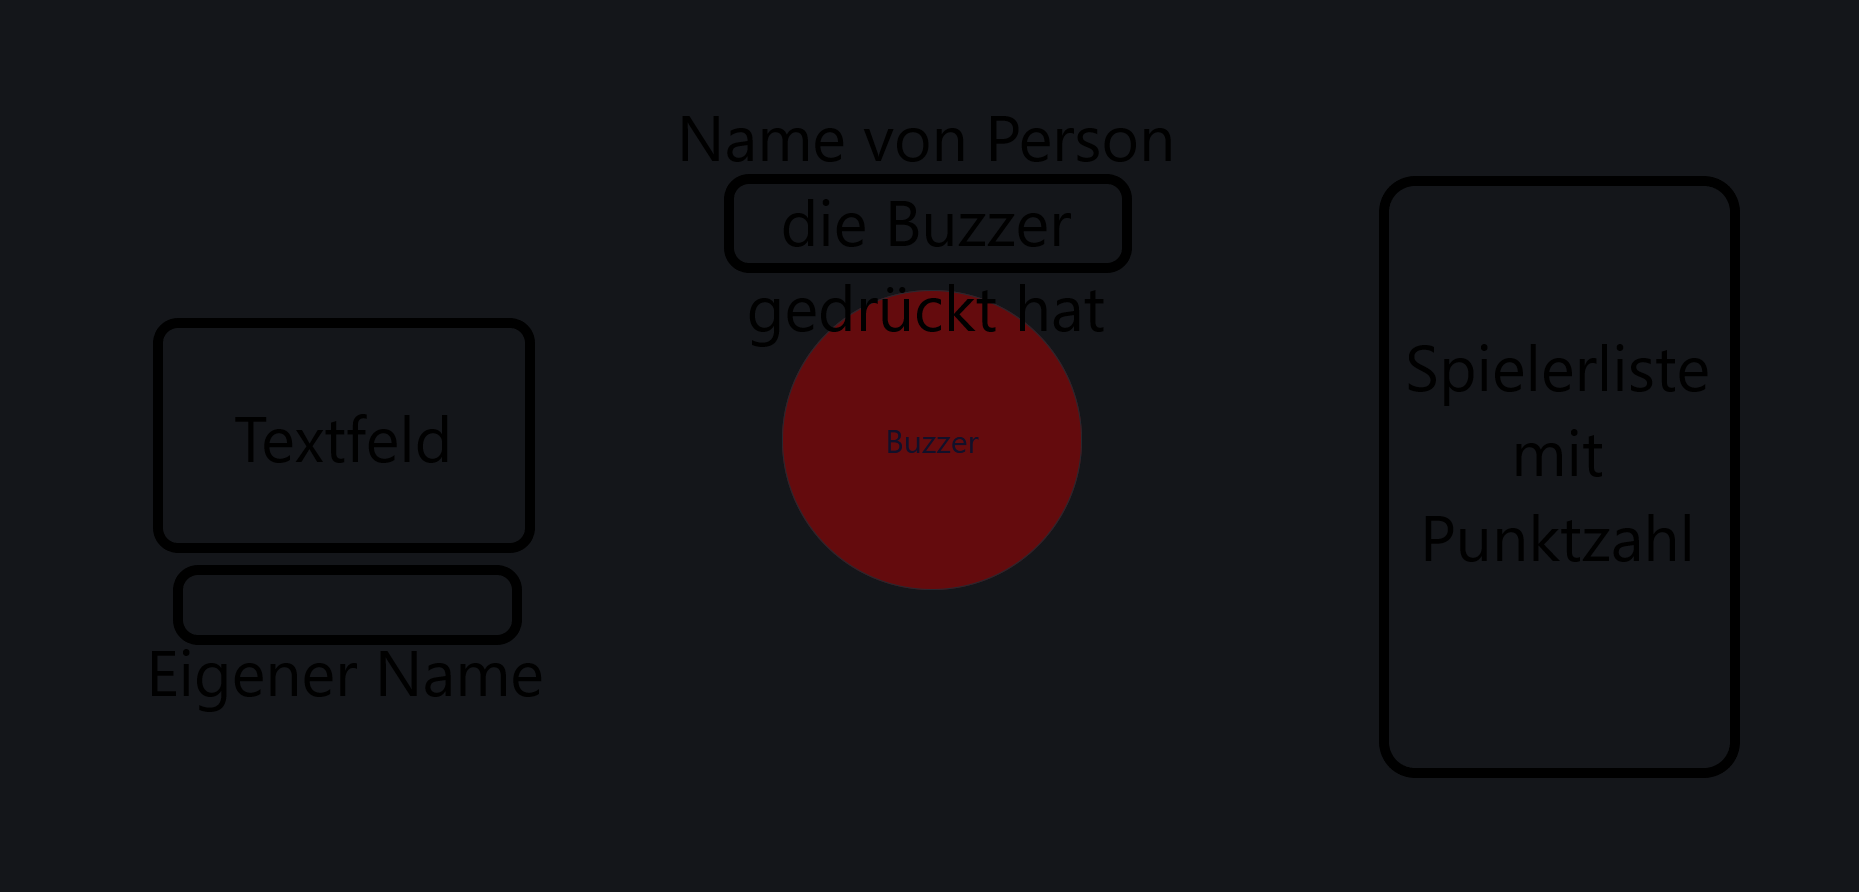
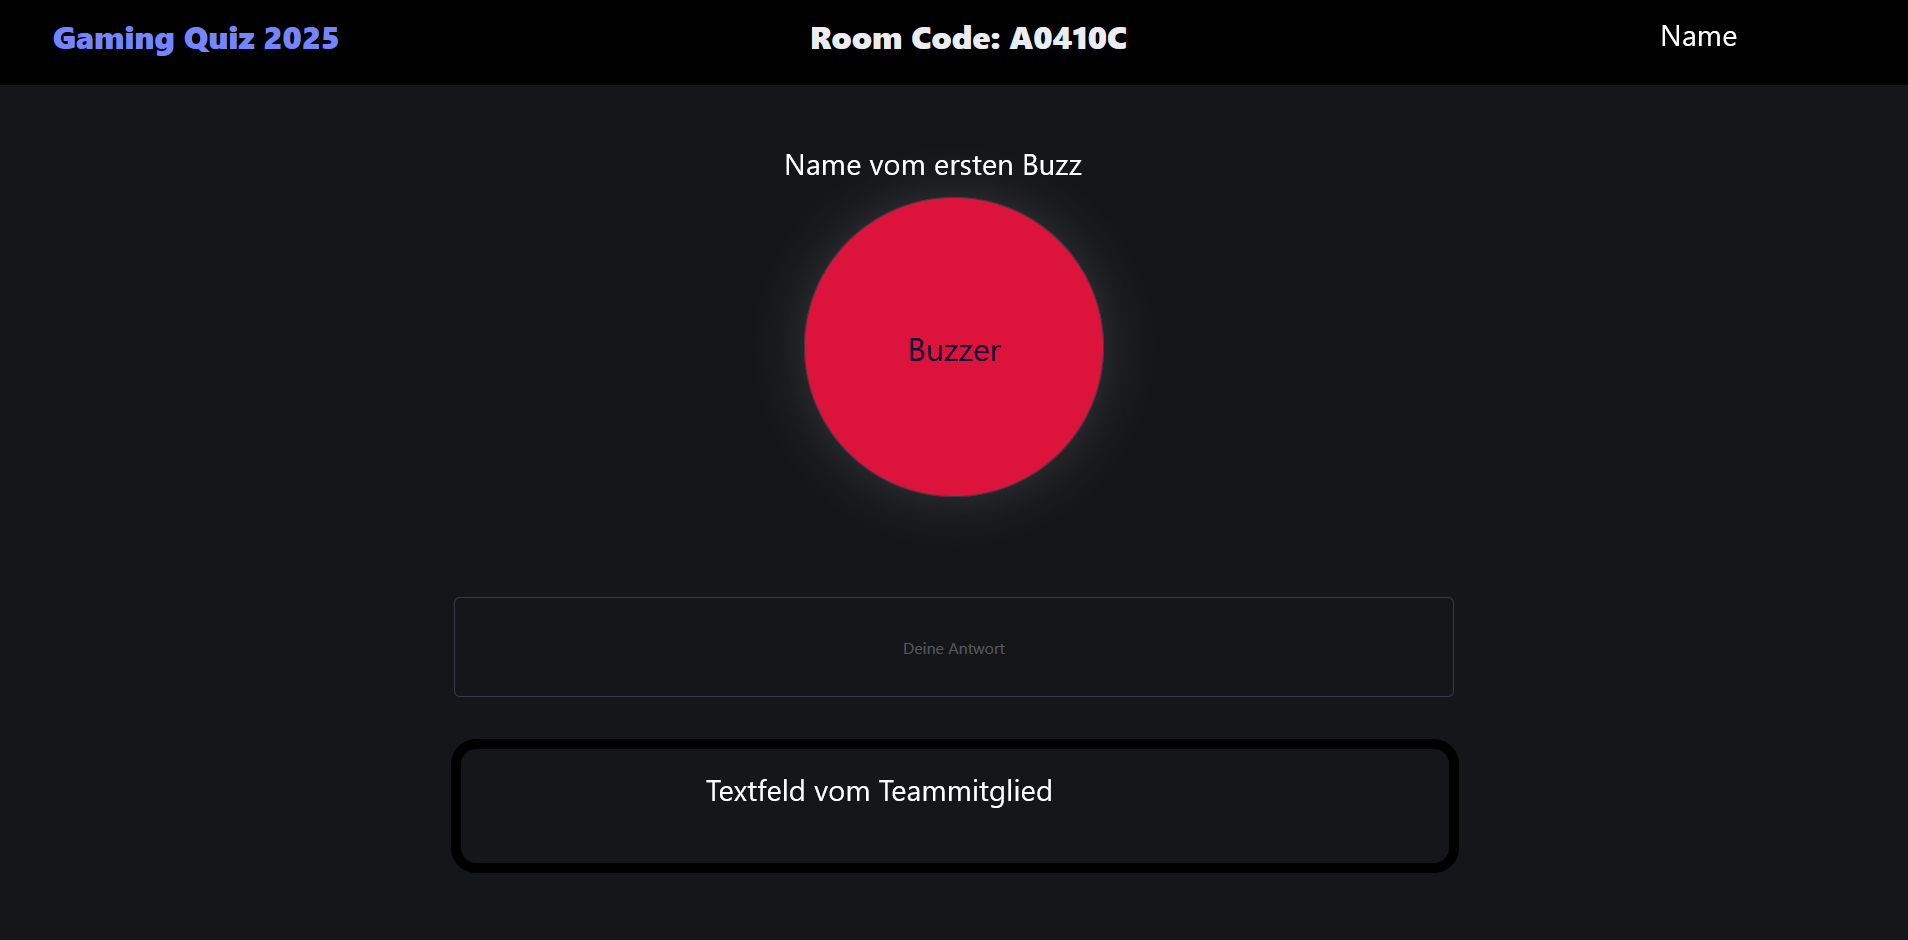
Buttons

diff --git a/templates/base.html b/templates/base.html
@@ -6,6 +6,8 @@
     <link rel="stylesheet" href="https://cdn.jsdelivr.net/npm/bulma@1.0.4/css/bulma.min.css">
     <link rel="stylesheet" href="{{ url_for('static', filename='css/style.css') }}">
     <script src="https://cdn.jsdelivr.net/npm/sweetalert2@11"></script>
+    <script src="https://cdn.socket.io/4.5.4/socket.io.min.js"></script>
+    <script>    const socket = io();    </script>
     <title>{% block title %}Gaming Quiz{% endblock %}</title>
 </head>
 <body>
@@ -45,6 +47,7 @@
     <script src="{{ url_for('static', filename='js/join.js') }}"></script>
     <script src="{{ url_for('static', filename='js/app.js') }}"></script>
     <script src="{{ url_for('static', filename='js/buzzer.js') }}"></script>
-    <script src="https://cdn.socket.io/4.5.4/socket.io.min.js"></script>
+    <script src="{{ url_for('static', filename='js/buttons.js') }}"></script>
+    <script src="{{ url_for('static', filename='js/cards.js') }}"></script>
 </body>
 </html>

diff --git a/templates/host.html b/templates/host.html
@@ -1,6 +1,6 @@
 {% extends "base.html" %}
 
-{% block title %} Join / Create Room {% endblock %}
+{% block title %} Gaming Quiz 2025 {% endblock %}
 {% block content %}
 <div class="columns black">
     <div class="column is-one-fifth überschrift">
@@ -15,8 +15,8 @@
 
 <button class="button">Reset Buzzer</button>
 <button class="button">Clear Text</button>
-<button class="button">Lock Buzzer</button>
-<button class="button">Only first Buzz</button>
+<button class="button" onclick="buttonActiveToggle(this)">Lock Buzzer</button>
+<button id="firstBuzz" class="button" onclick="buttonActiveToggle(this)">Only first Buzz</button>
 
 
 <div id="card" class="columns is-multiline is-narrow-tablet">
@@ -26,7 +26,7 @@
 
 <script> 
 window.addEventListener('DOMContentLoaded', () => {
-    createRoom();
+    createRoom(); //Beim seiten neuladen wird neuer Raum erstellt
 });
 </script>
 

diff --git a/static/css/style.css b/static/css/style.css
@@ -39,7 +39,7 @@
     font-size: 2rem;          /* großer Text */
     background-color: crimson;
     color: rgb(16, 10, 56);
-    box-shadow: 0px 0px 100px rgba(87, 87, 87, 0.5);
+    box-shadow: 0px 0px 50px rgba(87, 87, 87, 0.5);
 }
 .buzzer:active {
     transform: scale(0.99);       /* etwas kleiner gedrückt */
@@ -54,7 +54,7 @@
     display: flex;
     justify-content: center;  /* horizontal zentrieren */
     align-items: center;      /* vertikal zentrieren */
-    height: 100vh;            /* volle Höhe des Bildschirms */
+    height: 500px;            /* volle Höhe des Bildschirms */
 }
 
 .cardDash {
@@ -65,4 +65,10 @@
     max-width: 250px;
     max-height: 265px;
     background-color: rgb(17, 17, 17);
+}
+
+.answerInput {
+    min-height: 100px;
+    max-width: 1000px;
+    text-align: center;
 }

diff --git a/static/js/buttons.js b/static/js/buttons.js
@@ -1,0 +1,14 @@
+function buttonActiveToggle(button) {
+    button.classList.toggle('is-active');
+}
+
+function onlyFirstBuzz() {
+    const firstBuzzButton = document.getElementById('firstBuzz');
+    roomID = "{{ session['roomID'] }}";
+    if(firstBuzzButton.hasAttribute("class", "is-active")) {
+        socket.emit('firstBuzz', {roomID: roomID, firstBuzz: true});
+    } else {
+        socket.emit('firstBuzz', {roomID: roomID, firstBuzz: false});
+    }
+    
+}
